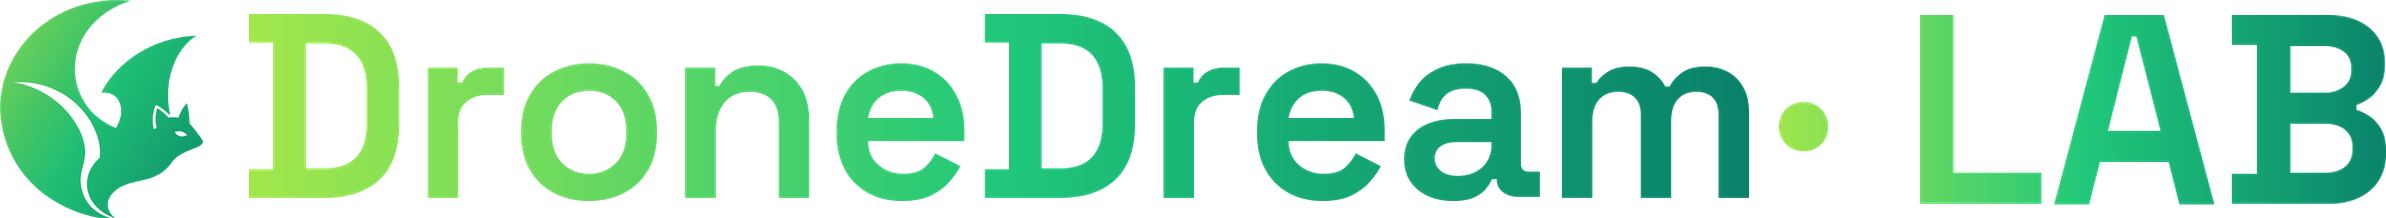
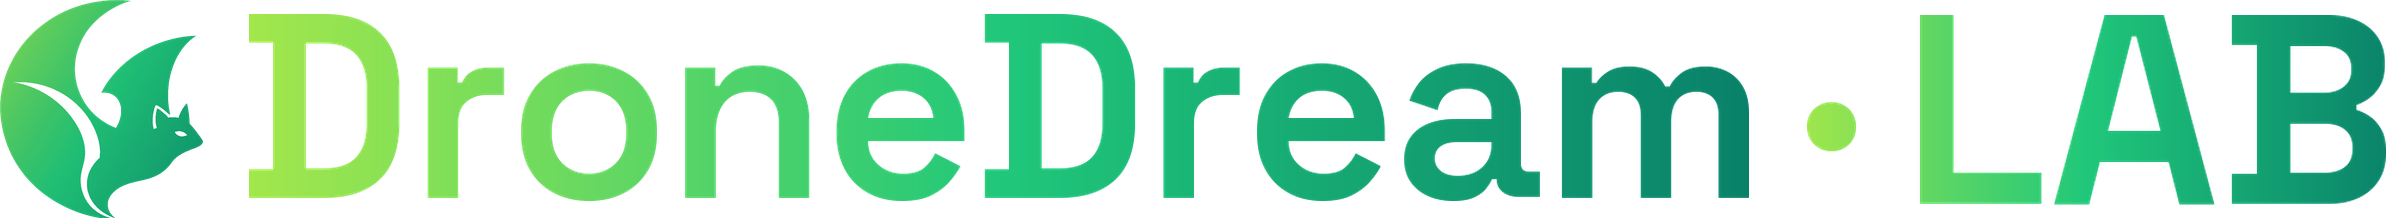
fix(brand): center edition separators

Changed region(s): [[0.7443, 0.4679, 0.7754, 0.7156]]

diff --git a/brand/tests/test_brand_assets.py b/brand/tests/test_brand_assets.py
@@ -17,28 +17,64 @@ EDITION_IDS = ("universal", "sim", "lab", "field")
 APPROVED_HASHES = {
     "sim": {
         "markPath": "brand/source/approved/sim-mark-1024.png",
-        "dotLockupPath": "brand/source/approved/sim-large-label-lockup.png",
+        "dotLockupPath": "brand/source/approved/sim-large-label-centered-lockup.png",
[3 lines of base64/hex data omitted]
         "dotLockupDimensions": {"width": 2337, "height": 218},
+        "separatorGeometry": {
+            "wordmarkEndX": 1748,
+            "separatorStartX": 1802,
+            "separatorEndX": 1851,
+            "editionLabelStartX": 1905,
+            "leftGapPx": 53,
+            "rightGapPx": 53,
+        },
+        "supersededLargeLabelPath": "brand/source/approved/sim-large-label-lockup.png",
+        "supersededLargeLabelSha256": (
[1 lines of base64/hex data omitted]
+        ),
         "supersededPath": "brand/source/approved/sim-dot-lockup.png",
[1 lines of base64/hex data omitted]
     },
     "lab": {
         "markPath": "brand/source/approved/lab-mark-1024.png",
-        "dotLockupPath": "brand/source/approved/lab-large-label-lockup.png",
+        "dotLockupPath": "brand/source/approved/lab-large-label-centered-lockup.png",
[3 lines of base64/hex data omitted]
         "dotLockupDimensions": {"width": 2386, "height": 218},
+        "separatorGeometry": {
+            "wordmarkEndX": 1748,
+            "separatorStartX": 1807,
+            "separatorEndX": 1858,
+            "editionLabelStartX": 1917,
+            "leftGapPx": 58,
+            "rightGapPx": 58,
+        },
+        "supersededLargeLabelPath": "brand/source/approved/lab-large-label-lockup.png",
+        "supersededLargeLabelSha256": (
[1 lines of base64/hex data omitted]
+        ),
         "supersededPath": "brand/source/approved/lab-dot-lockup.png",
[1 lines of base64/hex data omitted]
     },
     "field": {
         "markPath": "brand/source/approved/field-mark-1024.png",
-        "dotLockupPath": "brand/source/approved/field-large-label-lockup.png",
+        "dotLockupPath": "brand/source/approved/field-large-label-centered-lockup.png",
[3 lines of base64/hex data omitted]
         "dotLockupDimensions": {"width": 2581, "height": 218},
+        "separatorGeometry": {
+            "wordmarkEndX": 1748,
+            "separatorStartX": 1807,
+            "separatorEndX": 1858,
+            "editionLabelStartX": 1917,
+            "leftGapPx": 58,
+            "rightGapPx": 58,
+        },
+        "supersededLargeLabelPath": "brand/source/approved/field-large-label-lockup.png",
+        "supersededLargeLabelSha256": (
[1 lines of base64/hex data omitted]
+        ),
         "supersededPath": "brand/source/approved/field-dot-lockup.png",
[1 lines of base64/hex data omitted]
     },
@@ -66,7 +102,7 @@ def test_brand_contract_freezes_approved_names_palettes_and_safety_boundary() ->
     contract = load_json(CONTRACT_PATH)
     schema = load_json(SCHEMA_PATH)
 
-    assert contract["brandVersion"] == "1.1.0"
+    assert contract["brandVersion"] == "1.1.1"
     assert contract["separator"] == "\u00b7"
     assert schema["properties"]["separator"]["const"] == "\u00b7"
     assert contract["safety"] == {
@@ -78,10 +114,10 @@ def test_brand_contract_freezes_approved_names_palettes_and_safety_boundary() ->
         "conceptAssetsAreReleaseAssets": False,
         "largeLabelLockupsAreCanonicalSources": True,
         "largeLabelReviewPreviewPath": (
-            "brand/source/approved/edition-brand-large-label-approved-preview.png"
+            "brand/source/approved/edition-brand-centered-separator-approved-preview.png"
         ),
         "largeLabelReviewPreviewSha256": (
[2 lines of base64/hex data omitted]
         ),
         "largeLabelReviewPreviewDimensions": {"width": 5200, "height": 1680},
         "largeLabelReviewStudySha256": (
@@ -89,6 +125,10 @@ def test_brand_contract_freezes_approved_names_palettes_and_safety_boundary() ->
         ),
         "editionLabelHeightRatio": 0.9,
         "preserveNaturalLabelWidth": True,
+        "separatorCentering": {
+            "method": "equal-alpha-edge-gaps",
+            "tolerancePx": 0,
+        },
     }
     approved_preview = ROOT / contract["approval"]["largeLabelReviewPreviewPath"]
     assert sha256(approved_preview) == contract["approval"]["largeLabelReviewPreviewSha256"]
@@ -102,7 +142,13 @@ def test_brand_contract_freezes_approved_names_palettes_and_safety_boundary() ->
         assert descriptor["markSha256"] == expected_hashes["markSha256"]
         assert descriptor["dotLockupSha256"] == expected_hashes["dotLockupSha256"]
         assert descriptor["dotLockupDimensions"] == expected_hashes["dotLockupDimensions"]
-        assert descriptor["dotLockupStyle"] == "large-edition-label-v1"
+        assert descriptor["dotLockupStyle"] == "large-edition-label-centered-separator-v2"
+        assert descriptor["separatorGeometry"] == expected_hashes["separatorGeometry"]
+        assert descriptor["supersededLargeLabelLockup"] == {
+            "path": expected_hashes["supersededLargeLabelPath"],
+            "sha256": expected_hashes["supersededLargeLabelSha256"],
+            "status": "superseded-by-centered-separator-v2",
+        }
         assert descriptor["supersededDotLockup"] == {
             "path": expected_hashes["supersededPath"],
             "sha256": expected_hashes["supersededSha256"],
@@ -110,6 +156,9 @@ def test_brand_contract_freezes_approved_names_palettes_and_safety_boundary() ->
         }
         assert sha256(ROOT / descriptor["markPath"]) == expected_hashes["markSha256"]
         assert sha256(ROOT / descriptor["dotLockupPath"]) == expected_hashes["dotLockupSha256"]
+        assert sha256(ROOT / expected_hashes["supersededLargeLabelPath"]) == expected_hashes[
+            "supersededLargeLabelSha256"
+        ]
         assert sha256(ROOT / expected_hashes["supersededPath"]) == expected_hashes[
             "supersededSha256"
         ]
@@ -119,6 +168,28 @@ def test_brand_contract_freezes_approved_names_palettes_and_safety_boundary() ->
                 expected_hashes["dotLockupDimensions"]["height"],
             )
             assert lockup.mode == "RGBA"
+            alpha = lockup.getchannel("A")
+            geometry = expected_hashes["separatorGeometry"]
+            left_gap = geometry["separatorStartX"] - geometry["wordmarkEndX"] - 1
+            right_gap = geometry["editionLabelStartX"] - geometry["separatorEndX"] - 1
+            assert left_gap == right_gap
+            assert left_gap == geometry["leftGapPx"] == geometry["rightGapPx"]
+            assert alpha.crop(
+                (
+                    geometry["wordmarkEndX"] + 1,
+                    0,
+                    geometry["separatorStartX"],
+                    lockup.height,
+                )
+            ).getbbox() is None
+            assert alpha.crop(
+                (
+                    geometry["separatorEndX"] + 1,
+                    0,
+                    geometry["editionLabelStartX"],
+                    lockup.height,
+                )
+            ).getbbox() is None
     assert {
         edition_id: {
             "productName": contract["editions"][edition_id]["productName"],
@@ -158,20 +229,24 @@ def test_manifest_binds_every_generated_byte_dimension_and_ico_frame() -> None:
     assert manifest["presentationOnly"] is True
     assert manifest["grantsHardwareAuthority"] is False
     assert manifest["conceptAssetsAreReleaseAssets"] is False
-    assert manifest["brandVersion"] == "1.1.0"
+    assert manifest["brandVersion"] == "1.1.1"
     assert manifest["largeLabelApproval"] == {
         "canonicalSources": True,
         "reviewPreviewPath": (
-            "brand/source/approved/edition-brand-large-label-approved-preview.png"
+            "brand/source/approved/edition-brand-centered-separator-approved-preview.png"
         ),
         "reviewPreviewSha256": (
[2 lines of base64/hex data omitted]
         ),
         "reviewStudySha256": (
[1 lines of base64/hex data omitted]
         ),
         "editionLabelHeightRatio": 0.9,
         "preserveNaturalLabelWidth": True,
+        "separatorCentering": {
+            "method": "equal-alpha-edge-gaps",
+            "tolerancePx": 0,
+        },
     }
     assert manifest["contractSha256"] == sha256(CONTRACT_PATH)
     assert manifest["schemaSha256"] == sha256(SCHEMA_PATH)
@@ -189,6 +264,15 @@ def test_manifest_binds_every_generated_byte_dimension_and_ico_frame() -> None:
             manifest["approvedEditionAssets"][edition_id]["dotLockup"]["dimensions"]
             == expected_hashes["dotLockupDimensions"]
         )
+        assert (
+            manifest["approvedEditionAssets"][edition_id]["dotLockup"]["separatorGeometry"]
+            == expected_hashes["separatorGeometry"]
+        )
+        assert manifest["approvedEditionAssets"][edition_id]["supersededLargeLabelLockup"] == {
+            "path": expected_hashes["supersededLargeLabelPath"],
+            "sha256": expected_hashes["supersededLargeLabelSha256"],
+            "status": "superseded-by-centered-separator-v2",
+        }
         assert (
             manifest["approvedEditionAssets"][edition_id]["supersededDotLockup"]
             == {

diff --git a/scripts/build-brand-assets.py b/scripts/build-brand-assets.py
@@ -26,7 +26,11 @@ REQUIREMENTS_PATH = REPO / "brand" / "requirements.lock.txt"
 MANIFEST_PATH = REPO / "brand" / "generated" / "brand-assets.v1.json"
 VISUAL_RECEIPT_PATH = REPO / "brand" / "generated" / "brand-visual-receipt.v1.json"
 APPROVED_PREVIEW_PATH = (
-    REPO / "brand" / "source" / "approved" / "edition-brand-large-label-approved-preview.png"
+    REPO
+    / "brand"
+    / "source"
+    / "approved"
+    / "edition-brand-centered-separator-approved-preview.png"
 )
 
 EDITION_IDS = ("universal", "sim", "lab", "field")
@@ -61,7 +65,7 @@ def load_contract() -> dict[str, Any]:
     if (
         contract.get("schemaVersion") != 1
         or contract.get("kind") != "dronedream-edition-brand-system"
-        or contract.get("brandVersion") != "1.1.0"
+        or contract.get("brandVersion") != "1.1.1"
         or tuple(contract.get("editions", {})) != EDITION_IDS
         or contract.get("separator") != "\u00b7"
         or contract.get("safety") != {"presentationOnly": True, "grantsHardwareAuthority": False}
@@ -87,11 +91,13 @@ def load_contract() -> dict[str, Any]:
         or approval.get("largeLabelReviewPreviewPath")
         != APPROVED_PREVIEW_PATH.relative_to(REPO).as_posix()
         or approval.get("largeLabelReviewPreviewSha256")
[2 lines of base64/hex data omitted]
         or approval.get("largeLabelReviewStudySha256")
[1 lines of base64/hex data omitted]
         or approval.get("editionLabelHeightRatio") != 0.9
         or approval.get("preserveNaturalLabelWidth") is not True
+        or approval.get("separatorCentering")
+        != {"method": "equal-alpha-edge-gaps", "tolerancePx": 0}
     ):
         raise BrandBuildError("large-label approval identity drifted")
     return contract
@@ -137,6 +143,49 @@ def load_approved_edition_asset(
             raise BrandBuildError(f"approved {edition_id} asset format drifted: {path_key}")
         image = source.copy()
     return image, payload, path
+
+
+def validate_centered_separator(
+    image: Image.Image,
+    descriptor: dict[str, Any],
+    edition_id: str,
+    tolerance_px: int,
+) -> None:
+    geometry = descriptor.get("separatorGeometry")
+    if not isinstance(geometry, dict):
+        raise BrandBuildError(f"separator geometry is missing: {edition_id}")
+    try:
+        wordmark_end = int(geometry["wordmarkEndX"])
+        separator_start = int(geometry["separatorStartX"])
+        separator_end = int(geometry["separatorEndX"])
+        label_start = int(geometry["editionLabelStartX"])
+        declared_left_gap = int(geometry["leftGapPx"])
+        declared_right_gap = int(geometry["rightGapPx"])
+    except (KeyError, TypeError, ValueError) as exc:
+        raise BrandBuildError(f"separator geometry is invalid: {edition_id}") from exc
+
+    if not (0 <= wordmark_end < separator_start <= separator_end < label_start < image.width):
+        raise BrandBuildError(f"separator geometry escaped the lockup: {edition_id}")
+
+    alpha = image.getchannel("A")
+
+    def column_has_alpha(x: int) -> bool:
+        return alpha.crop((x, 0, x + 1, image.height)).getbbox() is not None
+
+    boundary_columns = (wordmark_end, separator_start, separator_end, label_start)
+    if not all(column_has_alpha(x) for x in boundary_columns):
+        raise BrandBuildError(f"separator alpha boundary drifted: {edition_id}")
+    if any(column_has_alpha(x) for x in range(wordmark_end + 1, separator_start)):
+        raise BrandBuildError(f"separator left gap is not transparent: {edition_id}")
+    if any(column_has_alpha(x) for x in range(separator_end + 1, label_start)):
+        raise BrandBuildError(f"separator right gap is not transparent: {edition_id}")
+
+    left_gap = separator_start - wordmark_end - 1
+    right_gap = label_start - separator_end - 1
+    if (left_gap, right_gap) != (declared_left_gap, declared_right_gap):
+        raise BrandBuildError(f"separator declared gap drifted: {edition_id}")
+    if abs(left_gap - right_gap) > tolerance_px:
+        raise BrandBuildError(f"separator is not centered: {edition_id}")
 
 
 def parse_color(value: str) -> tuple[int, int, int]:
@@ -502,6 +551,12 @@ def build_outputs() -> dict[Path, bytes]:
                         ],
                     ),
                 )
+                validate_centered_separator(
+                    primary_lockup,
+                    contract["approvedEditionAssets"][edition_id],
+                    edition_id,
+                    contract["approval"]["separatorCentering"]["tolerancePx"],
+                )
                 compact_lockup = primary_lockup.copy()
                 compact_lockup_payload = primary_lockup_payload
                 favicon = mark.resize((64, 64), Image.Resampling.LANCZOS)
@@ -597,6 +652,7 @@ def build_outputs() -> dict[Path, bytes]:
         "singleLineCenteredDotLockups": True,
         "editionLabelHeightRatio": contract["approval"]["editionLabelHeightRatio"],
         "naturalEditionLabelWidths": contract["approval"]["preserveNaturalLabelWidth"],
+        "separatorCentering": contract["approval"]["separatorCentering"],
         "sharedGeometry": True,
         "approvedExactByteEditions": list(EDITION_IDS[1:]),
         "presentationOnly": True,
@@ -631,6 +687,13 @@ def build_outputs() -> dict[Path, bytes]:
         descriptor = contract["approvedEditionAssets"][edition_id]
         mark_path = REPO / descriptor["markPath"]
         lockup_path = REPO / descriptor["dotLockupPath"]
+        superseded_large = descriptor["supersededLargeLabelLockup"]
+        superseded_large_path = REPO / superseded_large["path"]
+        if (
+            not superseded_large_path.is_file()
+            or sha256_bytes(superseded_large_path.read_bytes()) != superseded_large["sha256"]
+        ):
+            raise BrandBuildError(f"superseded large-label lockup evidence drifted: {edition_id}")
         superseded = descriptor["supersededDotLockup"]
         superseded_path = REPO / superseded["path"]
         if (
@@ -652,8 +715,10 @@ def build_outputs() -> dict[Path, bytes]:
                 "sha256": descriptor["dotLockupSha256"],
                 "dimensions": descriptor["dotLockupDimensions"],
                 "style": descriptor["dotLockupStyle"],
+                "separatorGeometry": descriptor["separatorGeometry"],
                 "canonicalOutputPath": f"brand/generated/{edition_id}/lockup-primary.png",
             },
+            "supersededLargeLabelLockup": superseded_large,
             "supersededDotLockup": superseded,
         }
 
@@ -696,6 +761,7 @@ def build_outputs() -> dict[Path, bytes]:
             "reviewStudySha256": contract["approval"]["largeLabelReviewStudySha256"],
             "editionLabelHeightRatio": contract["approval"]["editionLabelHeightRatio"],
             "preserveNaturalLabelWidth": contract["approval"]["preserveNaturalLabelWidth"],
+            "separatorCentering": contract["approval"]["separatorCentering"],
         },
         "conceptAssetsAreReleaseAssets": False,
         "universalIsCanonical": True,

diff --git a/brand/README.md b/brand/README.md
@@ -10,6 +10,10 @@ palettes, surfaces, export dimensions, font source, and the presentation-only
 safety boundary. `source/approved/` contains the exact user-approved SIM, LAB,
 and FIELD mark and large-edition-label lockup bytes. Edition labels use the
 approved roughly 90% wordmark-height treatment and preserve natural text width.
+The separator is optically and geometrically centered by requiring equal
+transparent alpha-edge gaps between the end of `DroneDream`, the separator,
+and the first edition-label letter. The previous off-center large-label
+lockups remain as superseded review evidence.
 They are copied into canonical 1024 px/primary outputs without re-rendering;
 smaller PNG, favicon, and ICO outputs remain deterministic derivatives of the
 unchanged marks. The earlier small-label lockups remain in the repository as
